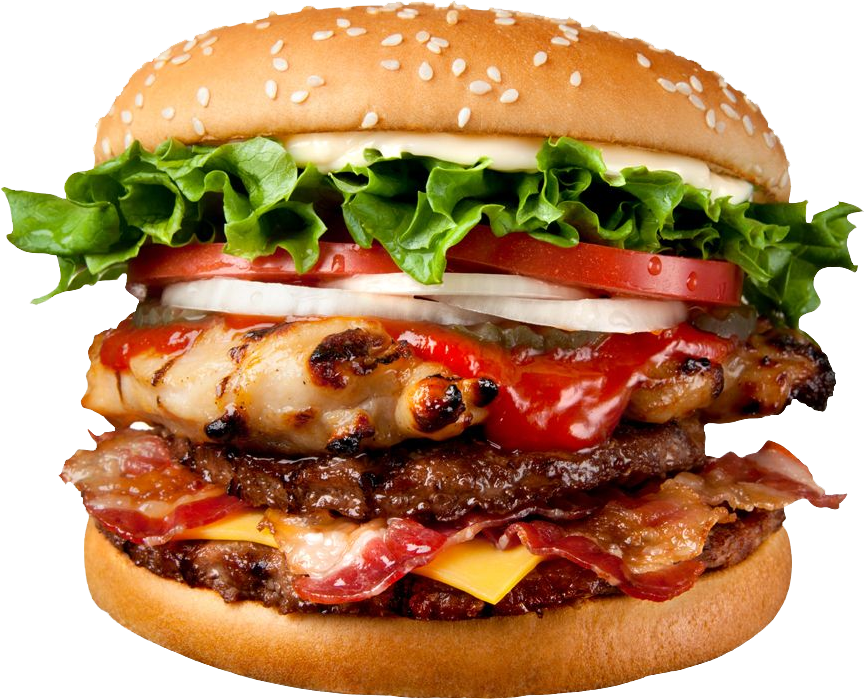
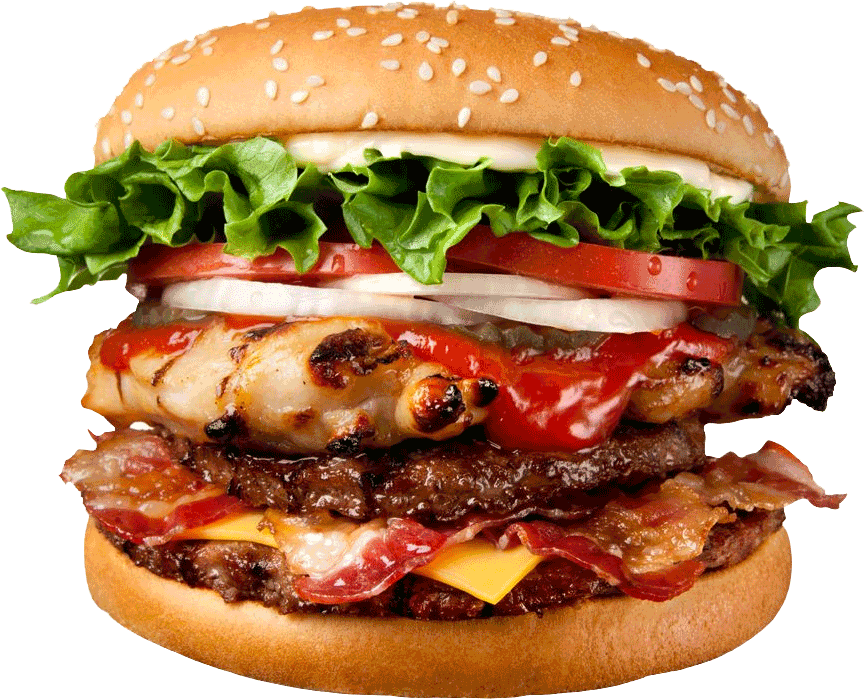
fix: switches to absolute routes for the fetch API
also compresses images for fasster load time

diff --git a/js/navigation.js b/js/navigation.js
@@ -94,9 +94,15 @@ export const fetchPage = () => {
 };
 
 const getPage = async (linkName) => {
-  const response = await fetch(`/${linkName}.html`, {
+  let baseURL = `${window.location.protocol}//${window.location.hostname}`;
+
+  if (window.location.port) {
+    baseURL += `:${window.location.port}`;
+  }
+  const response = await fetch(`${baseURL}/${linkName}.html`, {
     method: "GET",
   });
+
   try {
     const page = await response.text();
     var parser = new DOMParser();

diff --git a/README.md b/README.md
@@ -15,5 +15,3 @@ The names of the links are currently set to match the names of the html files (A
 Using event.target we pass the link to the fetch API which retrieves the new page.
 
 Once the new page is loaded, the old page is animated out and the new page is animated in. The Promises embedded in the fetch API make it possible to add page loading animations as well (coming soon maybe).
-
-Simple
